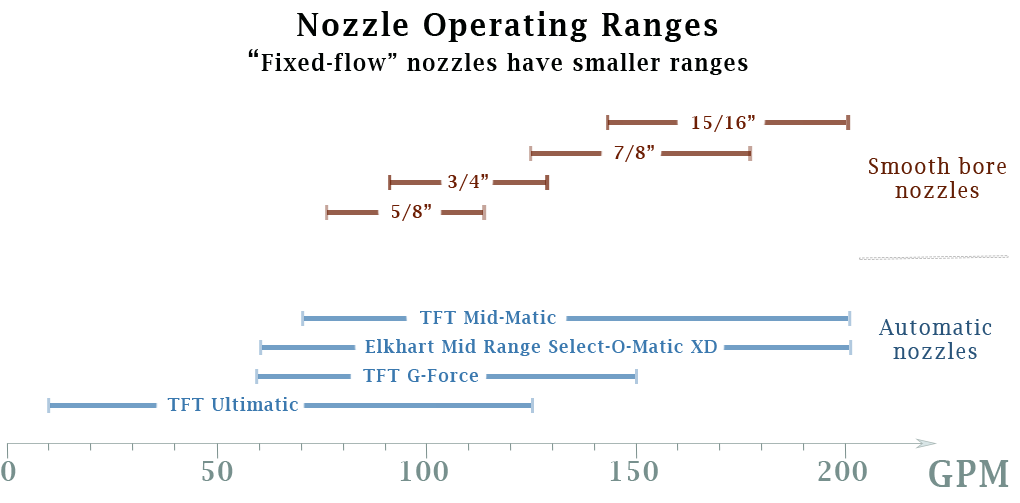
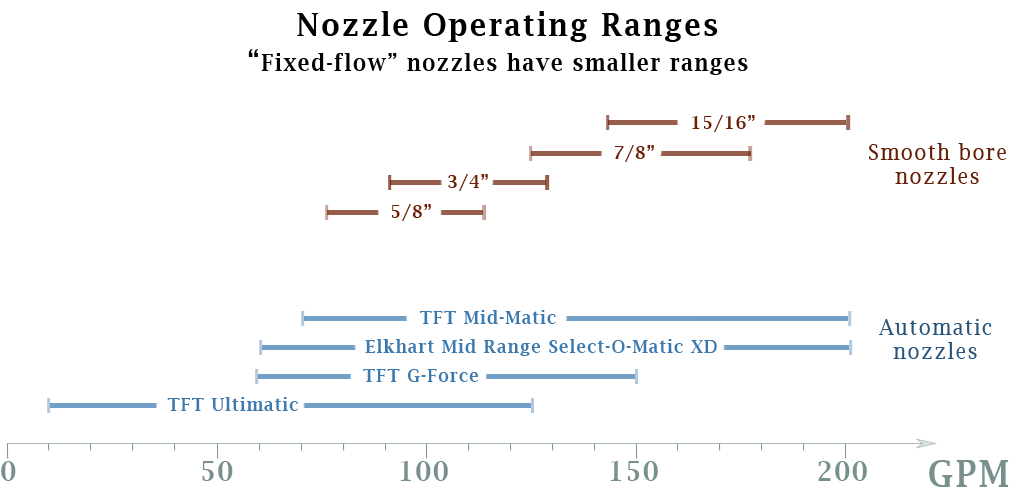
Changed Room Fires page layout and GIF timing.  Minor tweak to nozzle type labels in NozzleFlowRanges.png

Changed region(s): [[0.851, 0.2684, 1.0, 0.4175], [0.9118, 0.507, 0.9422, 0.5368]]

diff --git a/index.html b/index.html
@@ -50,44 +50,45 @@
         <span class = "tooltip">Bob Bourgeois<span class="tooltipcontent"><span class="tooltiptext" >Bob is a former District Fire Chief (FF 40 yrs),  former LLC owner (public safety case studies), BSME Columbia Univ</span></span></span></span><br>
         With input from
         <span class = "tooltip">Joe Maloney<span class="tooltipcontent"><span class="tooltiptext" >Joe is a former District Fire Chief (FF 32 yrs, 19 as District Chief),  </span></span></span><br>
-	  <span style="font-size:.5rem;line-height:.2">1st draft 13Apr21&nbsp;&nbsp;&nbsp; Latest rev 10Jun24<br>Feedback/Qs roomfiresetc@gmail.com</span></div>
+	  <span style="font-size:.5rem;line-height:.2">1st draft 13Apr21&nbsp;&nbsp;&nbsp; Latest rev 13Jul24<br>Feedback/Qs roomfiresetc@gmail.com</span></div>
 	  
 	
 </header>	
 
+<p><figure style="margin-left:inherit;padding-left:9%;margin-top:.1em;margin-right:2.5em; width:40%;float:left;"><img src="images/RoomContents.gif"  alt="Contents of a living room" style="width:100%;float:left;"/><figcaption style="font-size:.8em;">Fig. 1-1&nbsp;  Wet the burning fuel surfaces</figcaption></figure></p>    
+
 <p>Room fires are a good starting point to revisit the basics of fighting fire with water <span style="font-size:.9rem">(first of six topics)</span>.&nbsp Although easy to understand, they have in recent decades been misunderstood in some costly ways.</p> 
     
- 
-    
-<p><figure style="margin-left:inherit;padding-left:9%;margin-top:.1em;margin-right:2.5em; width:48%;float:left;"><img src="images/RoomContents.gif"  alt="Contents of a living room" style="width:100%;float:left;"/><figcaption style="font-size:.8em;">Fig. 1-1&nbsp;  Wet the burning fuel surfaces</figcaption></figure></p>    
-    
-
 <p>Killing a fully-involved room fire is mainly about <strong>wetting the burning fuel surfaces</strong> — choking off the supply of fuel gases by stopping the heat-driven reactions that produce them (pyrolysis).&nbsp;  No pyrolysis gases means no flames.</p>
 	
 <p>Killing the fire is <strong>not</strong> about absorbing all of the fire's heat 
 	  <span class = "tooltip">(HRR).<span class="tooltipcontent"><span class="tooltiptext" >Heat Release Rate</span></span></span>
 &nbsp;  What matters is the surface area that water is hitting at the moment.&nbsp;  If that area goes out and does not reignite immediately, the stream can make progress by wetting more fuel.&nbsp; If you can make progress, you can put the fire out.&nbsp; If most burning fuel surfaces can be painted with water, knockdown happens in seconds.</p>
     
-<br> <br> 
+<br>  
     
 	
 <p>Two progress-related concepts go a little deeper:</p>
 	
 	<ul>
-		<li>The first is <strong>progress instability</strong>
+		<p><figure style="margin-left:inherit;padding-left:2.2%;width:40%;Margin-top:.1em;Float:right"><img src="images/F3.gif"  alt="Unstable, semi-stable, and stable progress." style="width:100%;Padding-right:1.6em;"><figcaption style = "font-size:.8em;">Fig. 1-2&nbsp;  Progress instability</figcaption></figure></p>
+        
+        <li>The first is <strong>progress instability</strong>
 		<!--	<span class = "tooltip"><strong>progress instability</strong><span class="tooltipcontent"><span class="tooltipimage"><img src="images/F2.gif" width="382" height="206" alt="Stability animation"/></span></span></span>-->
 		— how quickly the fire could grow back.&nbsp; If you imagine an interruption in water flow:&nbsp; <strong>stable</strong>  progress will persist after the water stops; <strong>unstable</strong> progress can quickly be lost (<span style="font-size:.97rem">fire flashes back</span>). </li>
 		
 		<li>Water's progress will be stable on burning leaves and unstable on gasoline pool fires.&nbsp; Well-involved room fires live in between.&nbsp; <strong>Semi-stable</strong> progress persists for a short time.</li>
 		
-		<li><figure>
+		<!--
+        <li><figure>
 		<img src="images/F2.gif"  alt="Unstable, semi-stable, and stable progress." style="padding-left:1em;width:50%;"/>
 		<figcaption style="padding-left:1em;font-size:.8em;">Fig.1-2&nbsp;  Progress instability </figcaption> 
 		</figure></li>
+        //-->
 	
 		<li>The other key concept is that, once you start making semi-stable progress against a room fire, the required flow rate decreases rapidly.</li>
 	</ul>
-<br>    
+<br><br> <br>     
     
 <p>Water puts fire out by three mechanisms:
     
